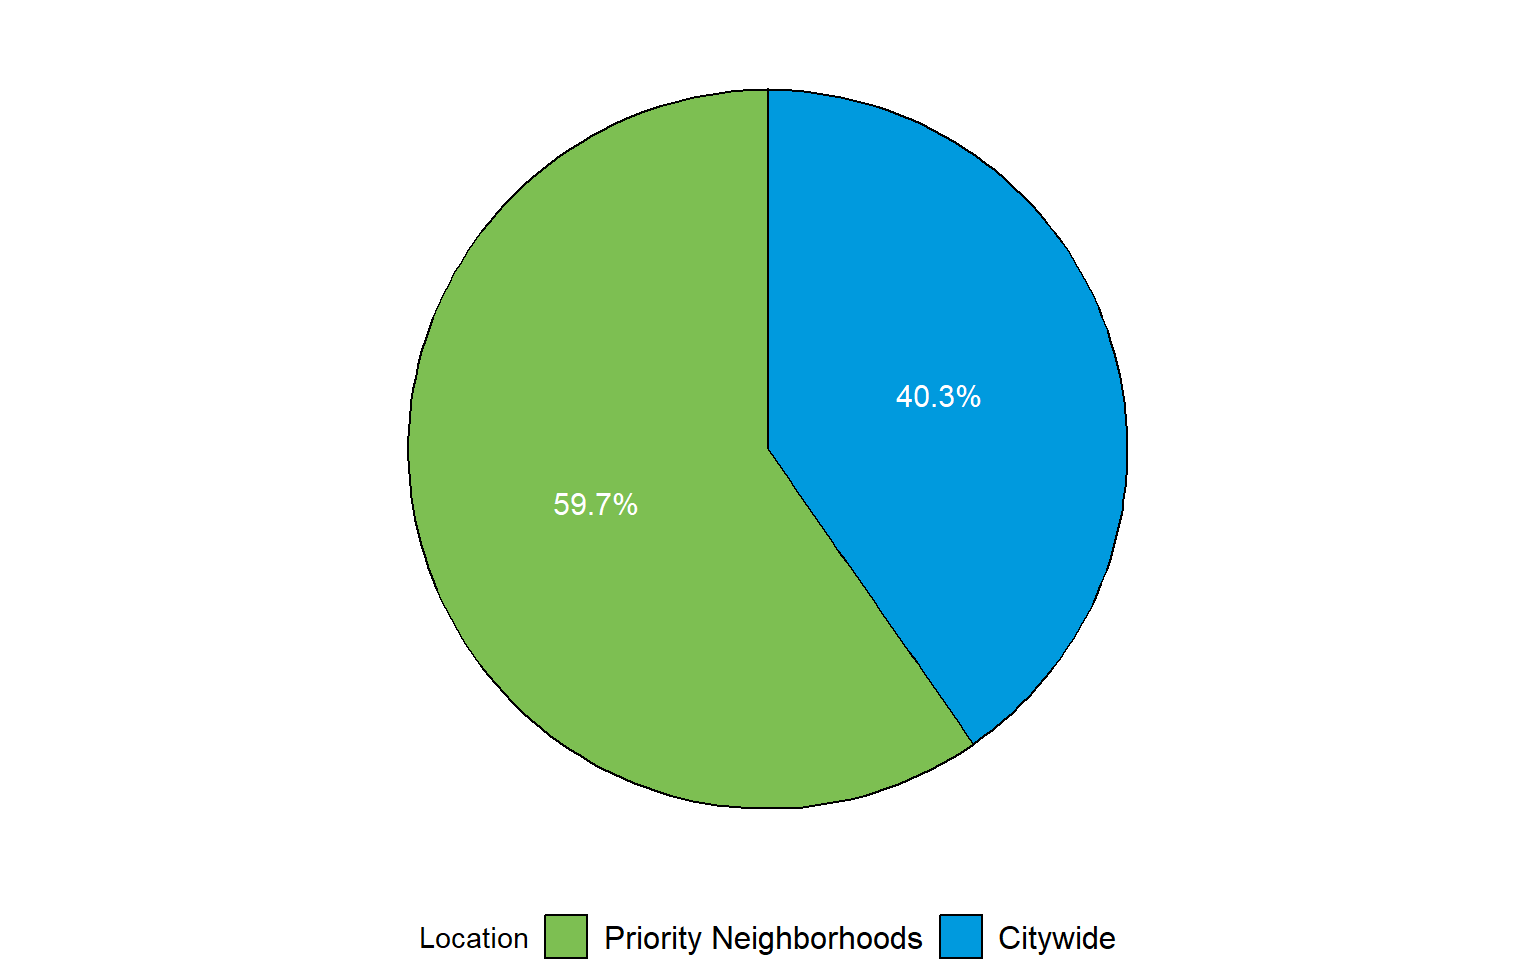
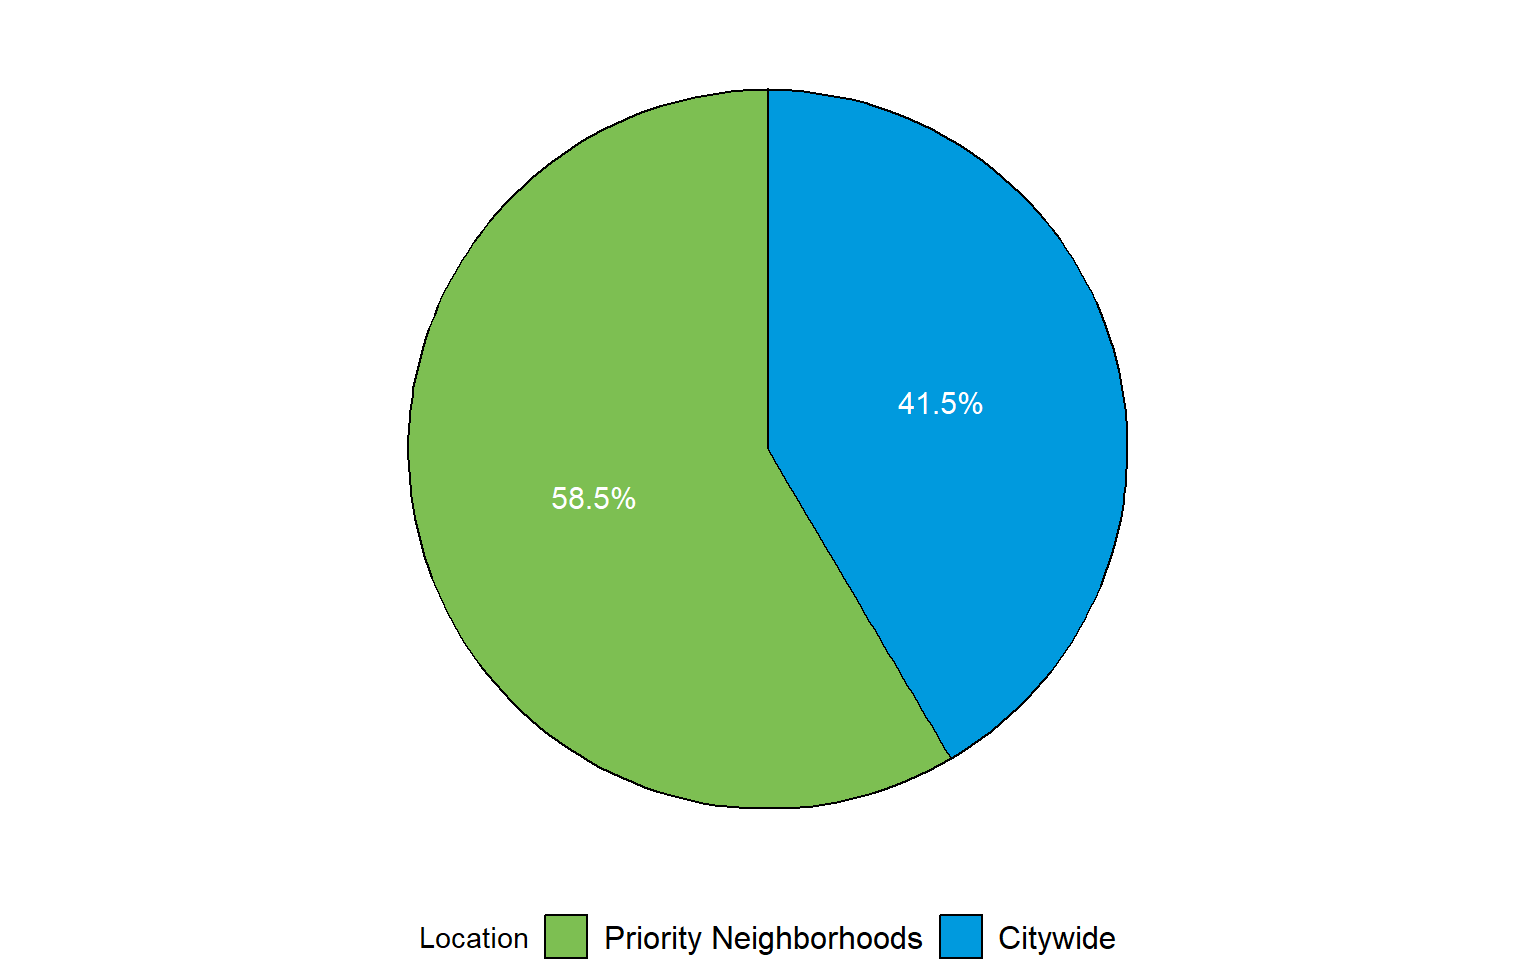
Built site for gh-pages

diff --git a/index.html b/index.html
@@ -89,7 +89,7 @@ grid-auto-rows: minmax(0, 1fr);">
 Total Capital Invested Across All Programs
 </p>
 <p class="value-box-value">
-$478.9 Million
+$534.9 Million
 </p>
 </div>
 </div>
@@ -105,7 +105,7 @@ $478.9 Million
 Total Economic Impact
 </p>
 <p class="value-box-value">
-$1 Billion
+$1.6 Billion
 </p>
 </div>
 </div>
@@ -164,7 +164,7 @@ Total Capital Investment
 <div class="card-body html-fill-item html-fill-container">
 <div class="quarto-figure quarto-figure-center html-fill-item html-fill-container">
 <figure class="figure">
-<p><a href="https://iatl.maps.arcgis.com/apps/instant/basic/index.html?appid=112649da7b1d4fa58098c16cc402dcc4" target="_blank"><img src="wins_map_20260710.png" class="img-fluid figure-img" style="width:51.0%"></a></p>
+<p><a href="https://iatl.maps.arcgis.com/apps/instant/basic/index.html?appid=112649da7b1d4fa58098c16cc402dcc4" target="_blank"><img src="wins_map_20260909.png" class="img-fluid figure-img" style="width:51.0%"></a></p>
 <figcaption>Click the image to explore our interactive online investment map</figcaption>
 </figure>
 </div>
@@ -193,7 +193,7 @@ grid-auto-rows: minmax(0, 1fr);">
 Direct Investment
 </p>
 <p class="value-box-value">
-$2.4 Million
+$2.8 Million
 </p>
 </div>
 </div>
@@ -209,7 +209,7 @@ $2.4 Million
 Small Businesses Funded (Grants and Loans)
 </p>
 <p class="value-box-value">
-49
+57
 </p>
 </div>
 </div>
@@ -225,7 +225,7 @@ Small Businesses Funded (Grants and Loans)
 Small Businesses Receiving Business Consulting Services
 </p>
 <p class="value-box-value">
-619
+739
 </p>
 </div>
 </div>
@@ -241,7 +241,7 @@ Small Businesses Receiving Business Consulting Services
 Small Business Funded in Priority Neighborhoods
 </p>
 <p class="value-box-value">
-61.2%
+57.9%
 </p>
 </div>
 </div>
@@ -311,7 +311,7 @@ grid-auto-rows: minmax(0, 1fr);">
 Percentage of Projects in Priority Neighborhoods
 </p>
 <p class="value-box-value">
-59.7%
+58.5%
 </p>
 </div>
 </div>
@@ -359,7 +359,7 @@ $96.3 Million
 Invest Atlanta Community Engagement Events
 </p>
 <p class="value-box-value">
-177
+196
 </p>
 </div>
 </div>
@@ -429,7 +429,7 @@ grid-auto-rows: minmax(0, 1fr);">
 Direct Investment in Affordable Housing
 </p>
 <p class="value-box-value">
-$41.8 Million
+$52.5 Million
 </p>
 </div>
 </div>
@@ -445,7 +445,7 @@ $41.8 Million
 Total Capital Investment in Affordable Housing
 </p>
 <p class="value-box-value">
-$145.5 Million
+$184.5 Million
 </p>
 </div>
 </div>
@@ -461,7 +461,7 @@ $145.5 Million
 Total Affordable Housing Units Financed
 </p>
 <p class="value-box-value">
-354
+484
 </p>
 </div>
 </div>
@@ -477,7 +477,7 @@ Total Affordable Housing Units Financed
 Homeownership Incentives (Down Payment, Home Rehab, Tax Relief)
 </p>
 <p class="value-box-value">
-119
+137
 </p>
 </div>
 </div>
@@ -547,7 +547,7 @@ grid-auto-rows: minmax(0, 1fr);">
 Total Capital Investment (Jobs &amp; Employment)
 </p>
 <p class="value-box-value">
-$127.1 Million
+$142.3 Million
 </p>
 </div>
 </div>
@@ -563,7 +563,7 @@ $127.1 Million
 Total Jobs Impact
 </p>
 <p class="value-box-value">
-1,773
+2,641
 </p>
 </div>
 </div>
@@ -579,7 +579,7 @@ Total Jobs Impact
 Business Development Projects
 </p>
 <p class="value-box-value">
-31
+38
 </p>
 </div>
 </div>
@@ -595,7 +595,7 @@ Business Development Projects
 Total Economic Impact (Jobs &amp; Employment)
 </p>
 <p class="value-box-value">
-$730 Million
+$1.2 Billion
 </p>
 </div>
 </div>
